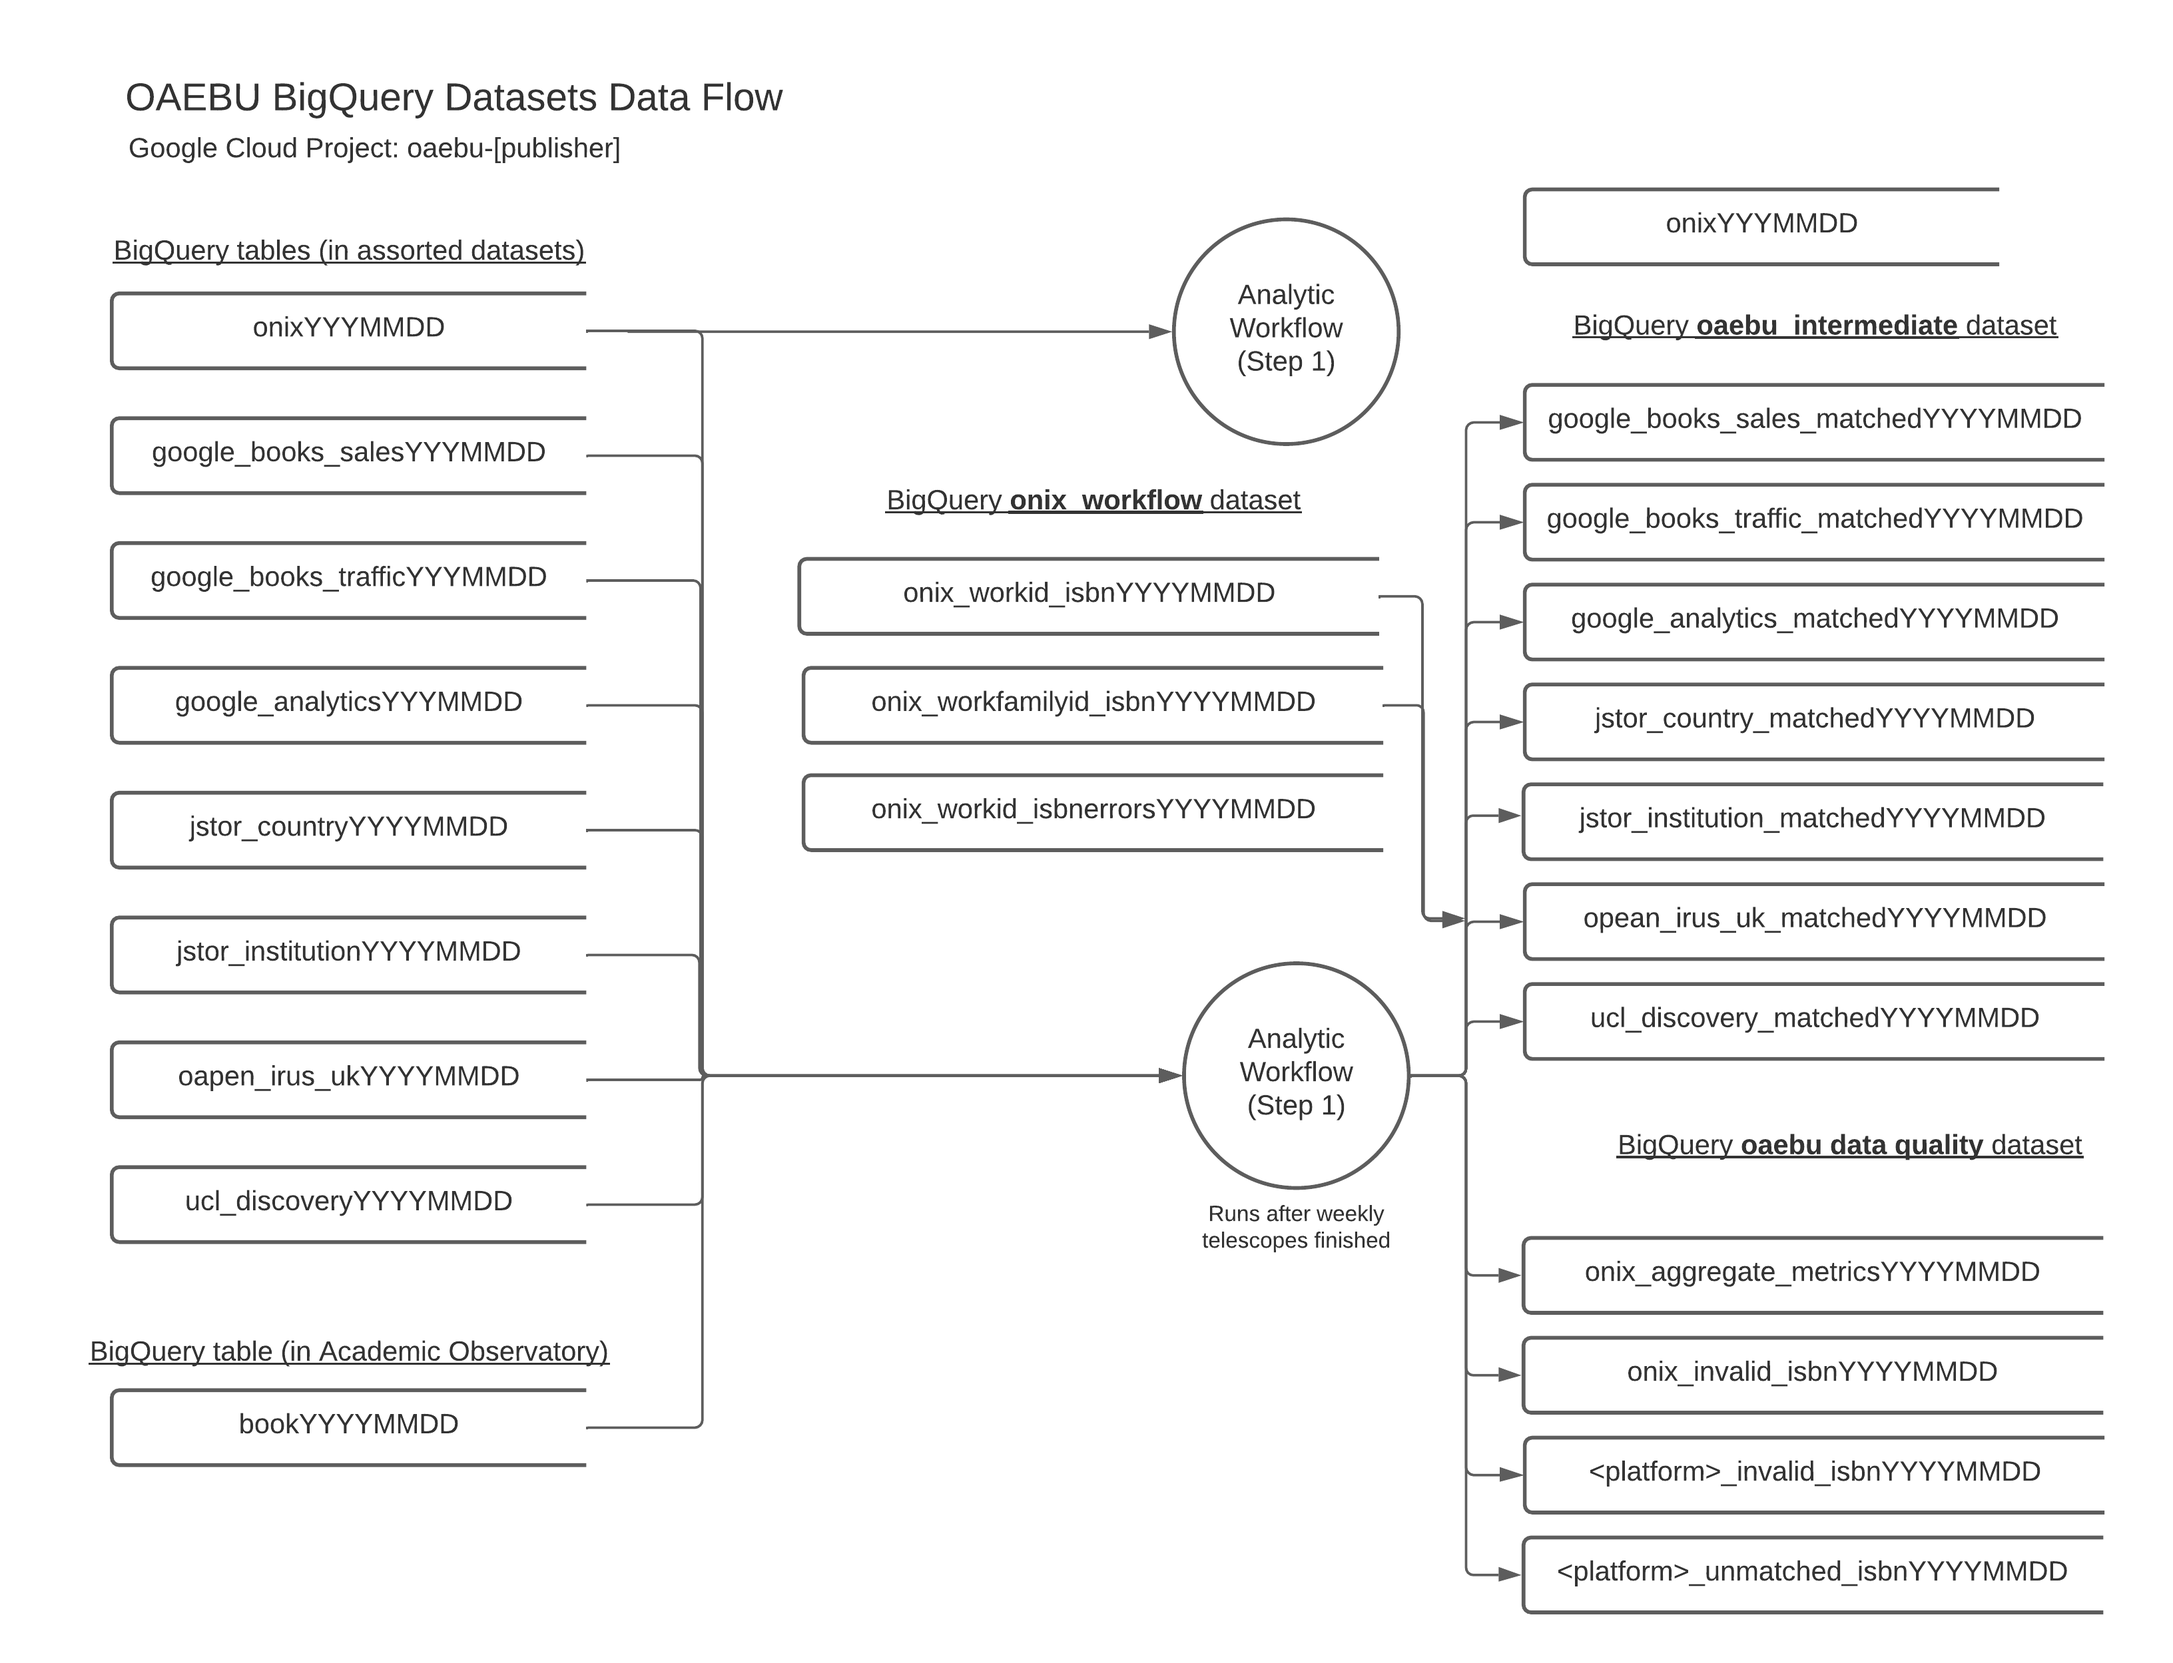
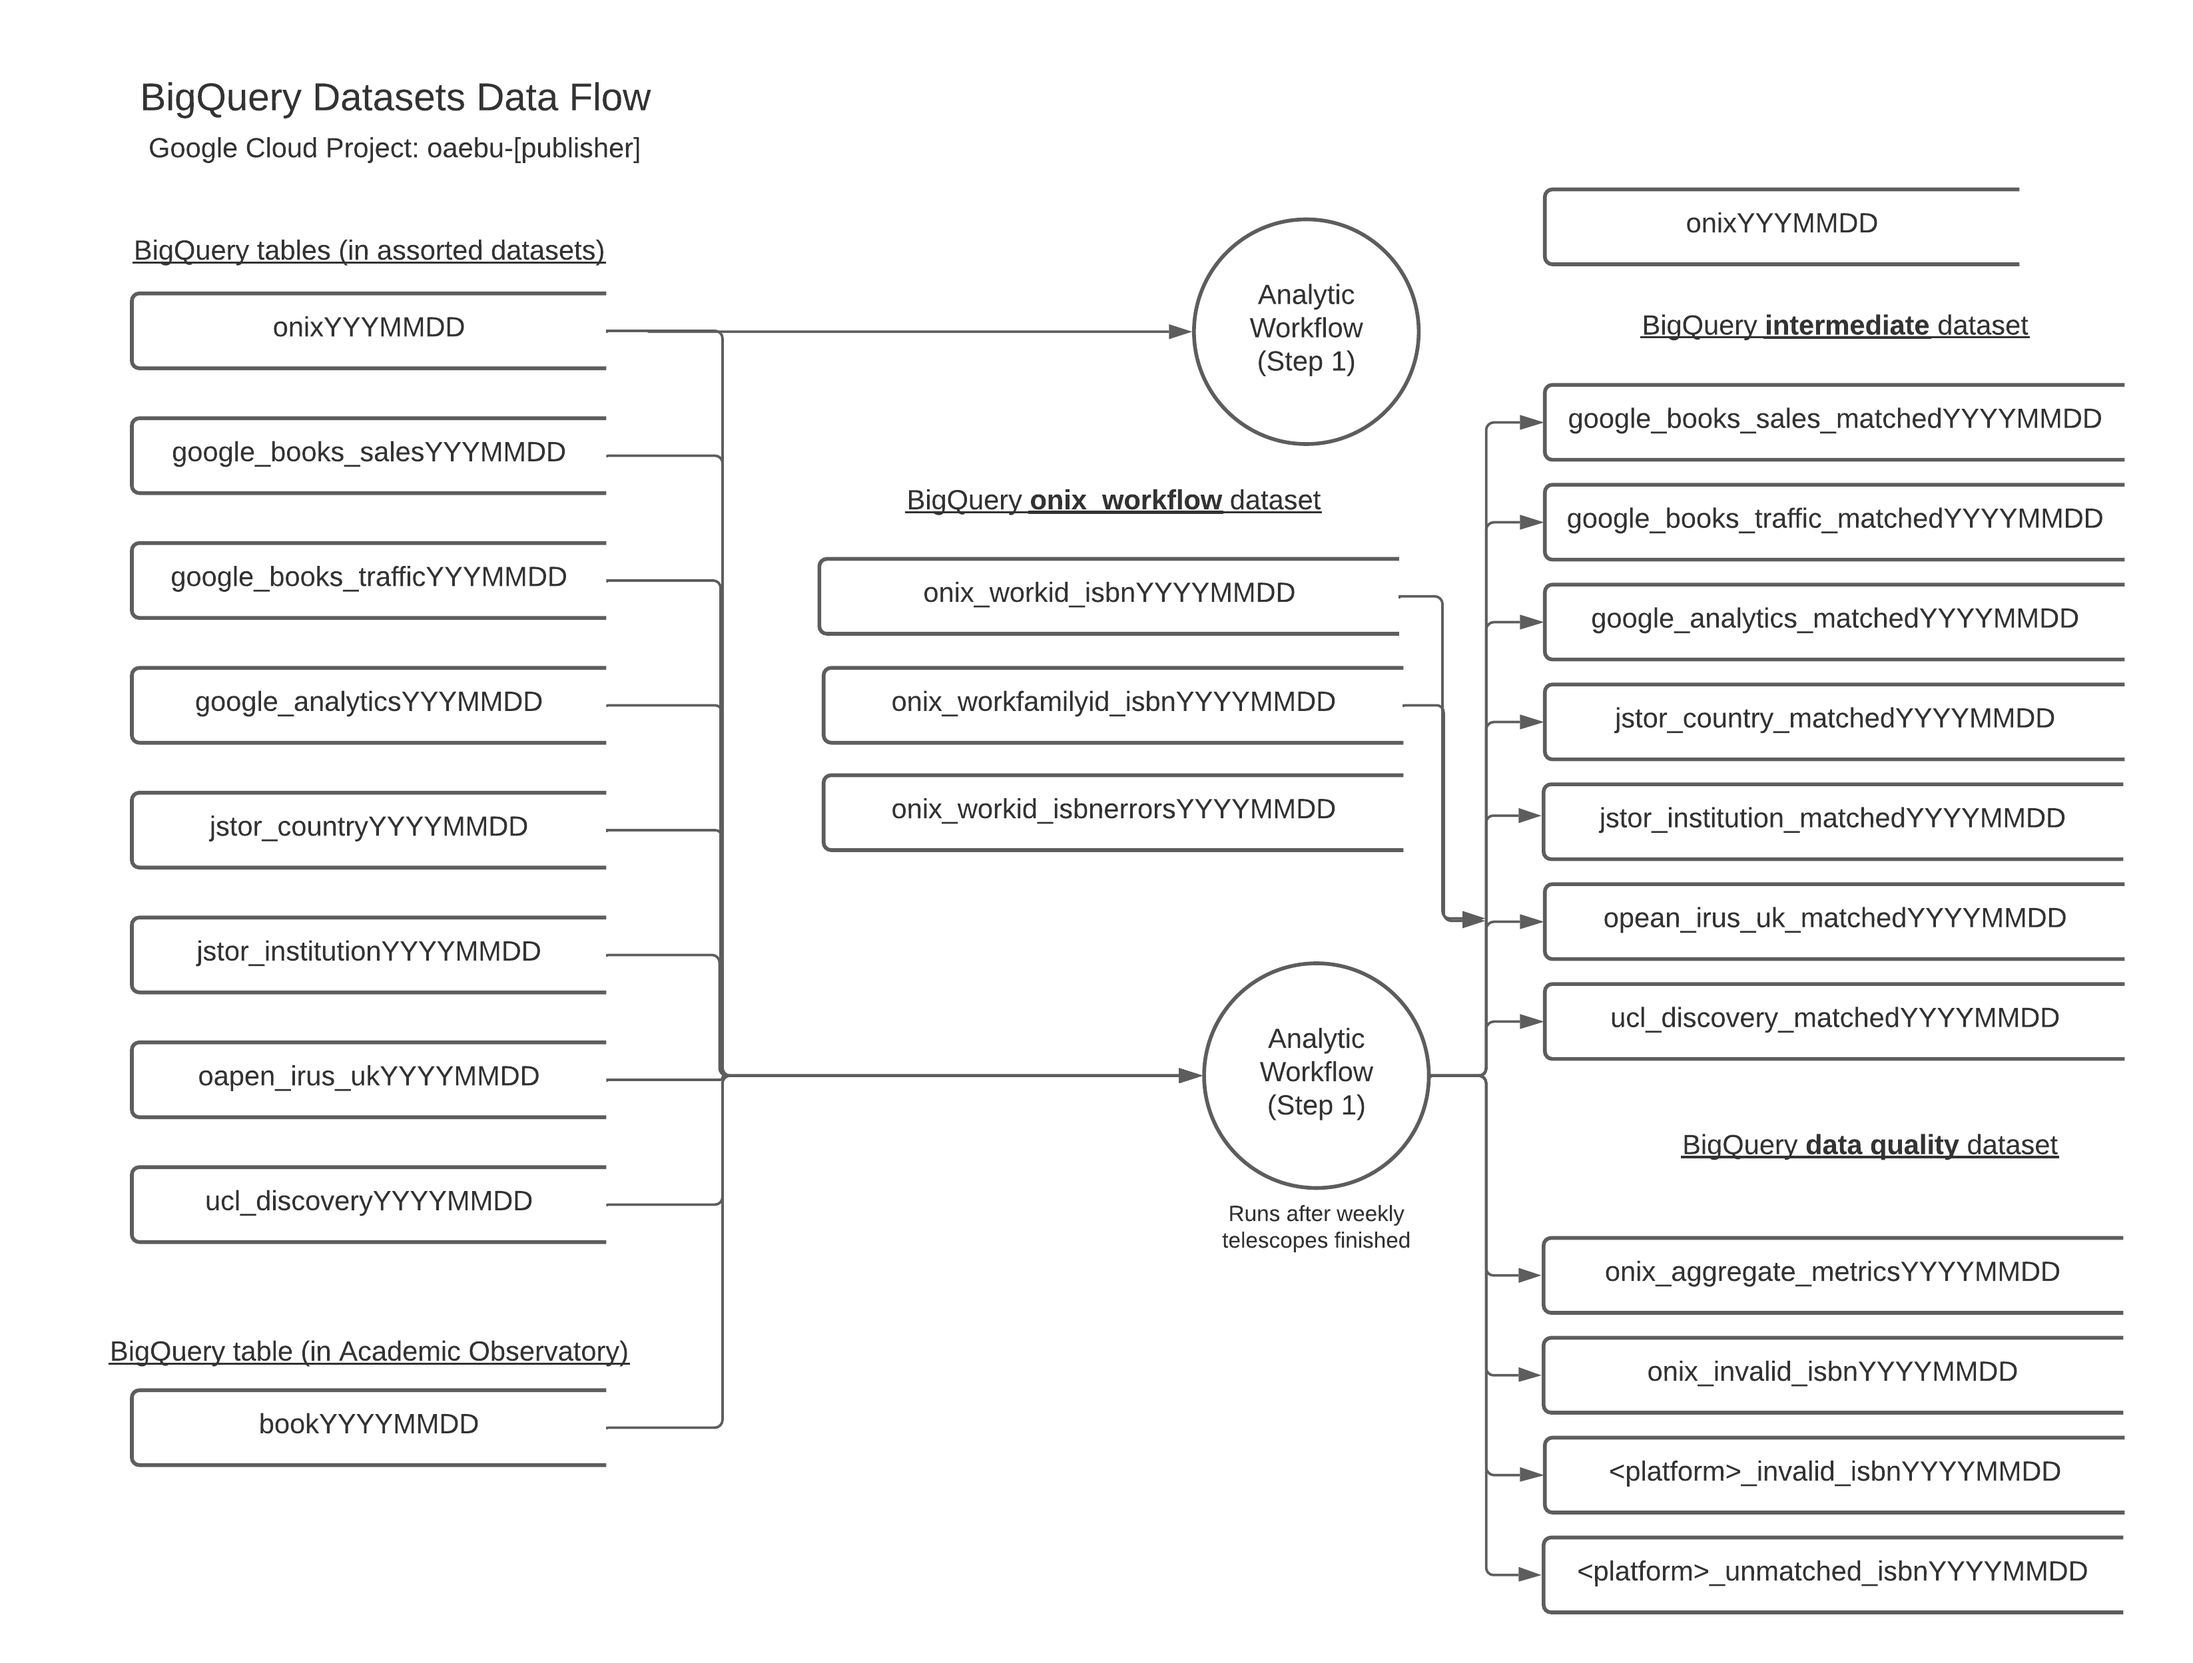
MEL-789 changes to text describing the project, such as mentions to the pilot project, and minor updates to naming text within figures

diff --git a/docs/oaebu_workflows/workflows/onix_workflow_step_1.md b/docs/oaebu_workflows/workflows/onix_workflow_step_1.md
@@ -5,7 +5,7 @@ The ONIX workflow uses the ONIX table created by the ONIX telescope to do the fo
   1. Aggregate book product records into works records. Works are equivalence classes of products, where each product in the class is a manifestation of each other. For example, a PDF and a paperback of the same work.
   2. Aggregate work records into work family records. A work family is an equivalence class of works where each work in the class is just a different edition.
   3. Produce intermediate lookup tables mapping ISBN13 -> WorkID and ISBN13 -> WorkFamilyID.
-  4. Produce oaebu_intermediate tables that append work_id and work_family_id columns to different data tables with ISBN keys.
+  4. Produce intermediate tables that append work_id and work_family_id columns to different data tables with ISBN keys.
   
 [Link to Query](https://github.com/The-Academic-Observatory/oaebu-workflows/blob/develop/oaebu_workflows/workflows/onix_workflow.py)
 
@@ -53,7 +53,7 @@ The Work Family ID will be an arbitrary Work ID (ISBN) representative from a wor
    :header-rows: 1
 ```
 
-## Create OAEBU intermediate tables
+## Create intermediate tables
 For each data partner's tables containing ISBN, create new "matched" tables which extend the original data with new "work_id" and "work_family_id" columns.
 
 The schemas for these tables are identical to the raw Telescope's schemas, with the addition of work_ids and work_family_ids.

diff --git a/docs/oaebu_workflows/workflows/onix_workflow_intro.md b/docs/oaebu_workflows/workflows/onix_workflow_intro.md
@@ -7,7 +7,7 @@ Analytic workflows process the data ingested by telescope workflows and are also
 .. image:: ../static/onix_workflow_all.png
     :width: 650
 
-The OAeBU Project has one core workflow, which is broken into three parts and described below. The parts are:
+The pilot project has one core workflow, which is broken into three parts and described below. The parts are:
  1. Aggregating and Mapping book products into works and work families
  2. Linking data from metric providers to book products
  3. Exporting these linked metrics to Elasticsearch for viewing in Dashboards
